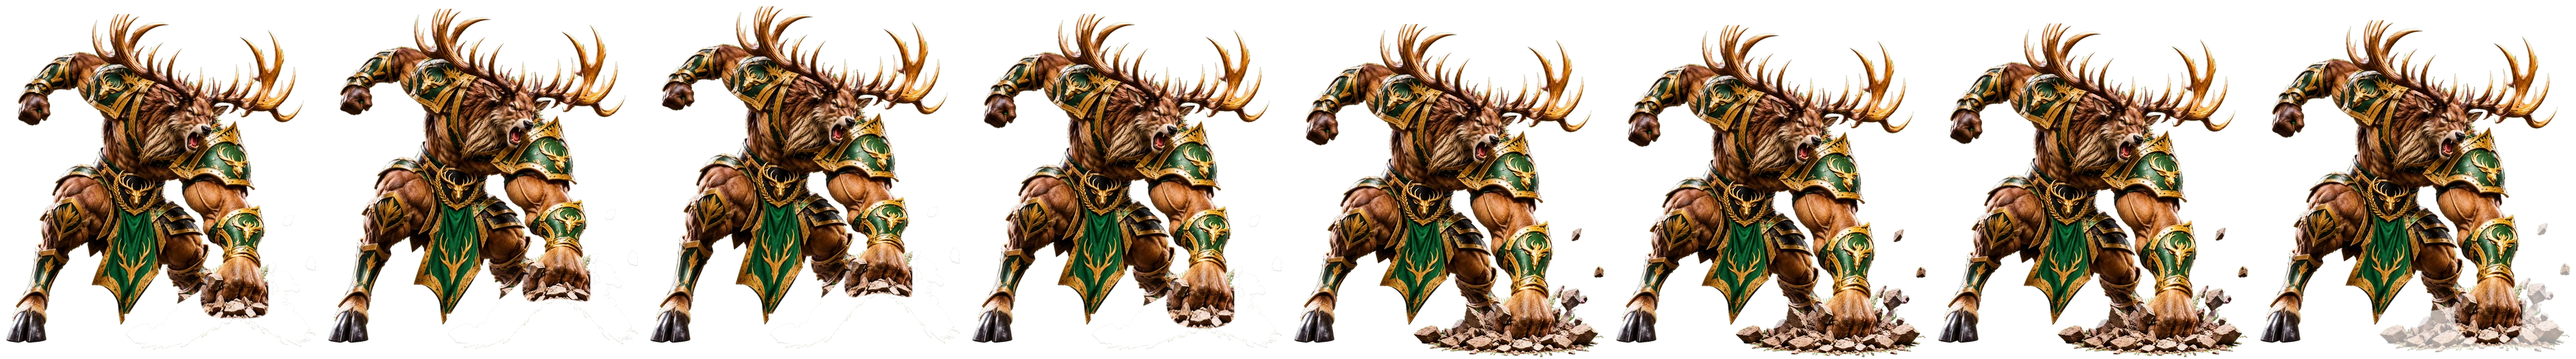
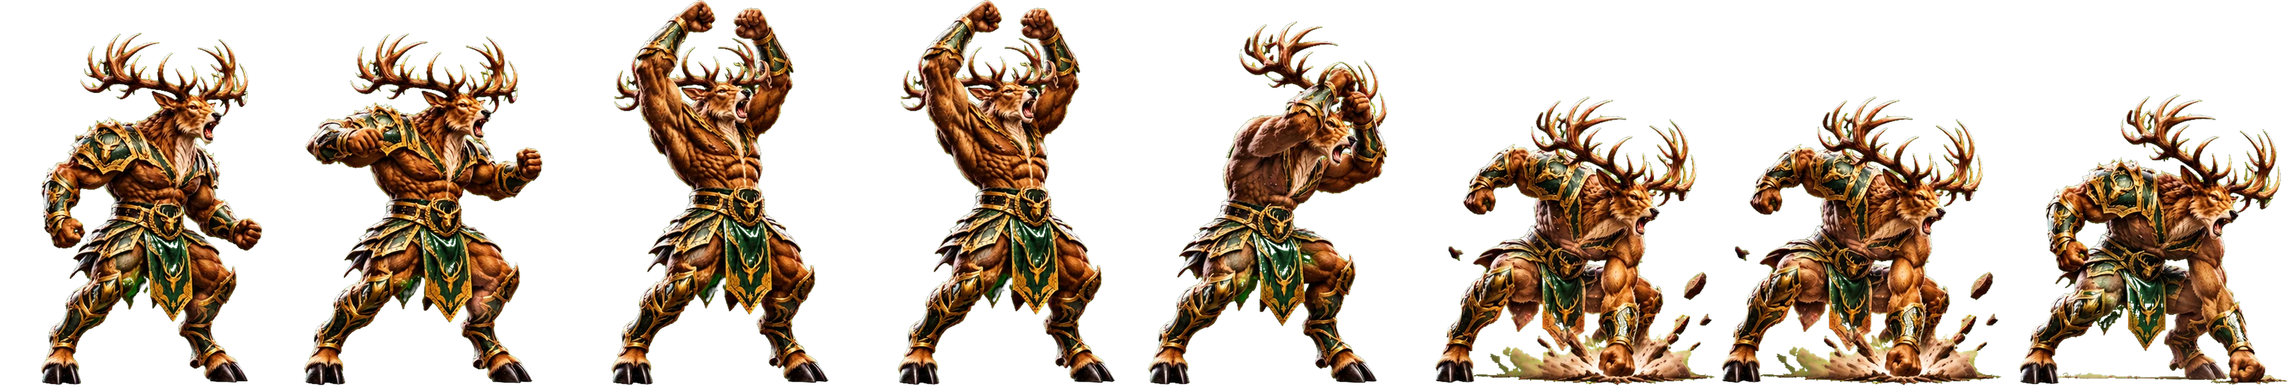
V2 preview 10.19: stag upgraded smash sequence and get-up (not live; walk/jump/victory sheets held back - wrong outfit)
Claude-Session: https://claude.ai/code/session_01Wp8cgZvzavvyA9CxcdgKRp

diff --git a/game/js/sprites-hd.js b/game/js/sprites-hd.js
@@ -1,2 +1,2 @@
 // High-detail fighter frames (frames-hd/), used on large/sharp screens. Same layout as SPRITES.
-const SPRITES_HD={"badger":{"s":2.0,"anims":{"idle":[16,363,425,20,211],"walk_forward":[8,324,422,82,209],"walk_back":[8,324,422,82,209],"run":[8,324,422,82,209],"block":[6,374,428,21,212],"attack_light":[8,423,419,103,208],"bite":[8,364,423,92,210],"claw_swipe":[6,423,419,103,208],"attack_heavy":[8,390,418,89,207],"uppercut":[8,423,419,103,208],"pounce":[8,364,423,92,210],"special_earth_slam":[7,390,418,89,207],"shadow_rampage":[10,423,419,103,208],"victory":[7,364,423,92,210],"jump":[7,374,428,21,212],"crouch":[4,374,428,21,212],"hit_light":[4,363,423,20,210],"hit_heavy":[6,363,423,20,210],"knockdown":[9,586,417,85,207],"knockdown_getup":[6,586,417,85,207],"defeat":[5,586,417,85,207]}},"crocodile":{"s":2.0,"anims":{"idle":[16,658,534,187,264],"walk_forward":[8,755,501,210,247],"walk_back":[8,755,501,210,247],"run":[8,755,501,210,247],"block":[6,617,527,168,261],"attack_light":[8,751,527,215,261],"bite":[8,682,533,187,264],"special_pounce":[6,751,527,215,261],"attack_heavy":[8,777,555,197,275],"uppercut":[7,777,555,197,275],"victory":[8,682,533,187,264],"jump":[7,617,527,168,261],"hit_light":[4,653,531,187,263],"hit_heavy":[6,653,531,187,263],"knockdown":[9,975,530,141,263],"knockdown_getup":[6,975,530,141,263],"defeat":[5,975,530,141,263]}},"elephant":{"s":2.0,"anims":{"idle":[16,725,684,177,339],"walk_forward":[8,788,690,175,341],"walk_back":[8,788,690,175,341],"run":[8,788,690,175,341],"block":[6,717,696,179,344],"attack_light":[8,1010,683,214,338],"bite":[8,768,683,185,338],"special_pounce":[6,1010,683,214,338],"attack_heavy":[8,1018,727,253,360],"uppercut":[7,1018,727,253,360],"victory":[8,768,683,185,338],"jump":[7,717,696,179,344],"hit_light":[4,724,682,178,337],"hit_heavy":[6,724,682,178,337],"knockdown":[9,1092,696,385,345],"knockdown_getup":[6,1092,696,385,345],"defeat":[5,1092,696,385,345]}},"grizzly":{"s":2.0,"anims":{"idle":[16,484,632,126,314],"walk_forward":[8,561,633,92,314],"walk_back":[8,561,633,92,314],"run":[8,561,633,92,314],"block":[6,518,624,129,310],"attack_light":[8,587,631,161,313],"bite":[8,511,630,132,313],"special_pounce":[6,587,631,161,313],"attack_heavy":[8,570,632,142,314],"uppercut":[7,570,632,142,314],"victory":[8,570,632,142,314],"jump":[7,518,624,129,310],"hit_light":[4,485,629,127,312],"hit_heavy":[6,485,629,127,312],"knockdown":[9,804,634,94,315],"knockdown_getup":[6,804,634,94,315],"defeat":[5,804,634,94,315]}},"hippo":{"s":2.0,"anims":{"idle":[16,743,653,181,323],"walk_forward":[8,727,652,145,323],"walk_back":[8,727,652,145,323],"run":[8,727,652,145,323],"block":[6,684,640,170,316],"attack_light":[8,1009,649,213,321],"bite":[8,788,652,189,323],"special_pounce":[6,1009,649,213,321],"attack_heavy":[8,894,689,222,341],"uppercut":[7,894,689,222,341],"victory":[8,788,652,189,323],"jump":[7,684,640,170,316],"hit_light":[4,747,650,184,322],"hit_heavy":[6,747,650,184,322],"knockdown":[9,1058,681,164,338],"knockdown_getup":[6,1058,681,164,338],"defeat":[5,1058,681,164,338]}},"hyena":{"s":2.0,"anims":{"idle":[16,337,491,83,243],"walk_forward":[8,397,486,111,241],"walk_back":[8,397,486,111,241],"run":[8,397,486,111,241],"block":[6,400,486,100,241],"attack_light":[8,451,479,112,238],"bite":[8,355,489,87,243],"special_pounce":[6,355,489,87,243],"attack_heavy":[8,398,431,99,214],"uppercut":[7,451,479,112,238],"victory":[8,355,489,87,243],"jump":[7,400,486,100,241],"hit_light":[4,338,488,84,242],"hit_heavy":[6,338,488,84,242],"knockdown":[9,633,490,78,243],"knockdown_getup":[6,633,490,78,243],"defeat":[5,633,490,78,243]}},"jaguar":{"s":2.0,"anims":{"idle":[16,539,506,129,251],"walk_forward":[8,406,473,72,234],"walk_back":[8,406,473,72,234],"run":[8,406,473,72,234],"block":[6,354,501,25,248],"attack_light":[8,483,488,131,242],"bite":[8,558,504,129,250],"special_pounce":[6,483,488,131,242],"attack_heavy":[8,581,421,132,208],"uppercut":[7,581,421,132,208],"victory":[8,558,504,129,250],"jump":[7,354,501,25,248],"hit_light":[4,537,504,128,250],"hit_heavy":[6,537,504,128,250],"knockdown":[9,719,518,244,257],"knockdown_getup":[6,719,518,244,257],"defeat":[5,719,518,244,257]}},"leopard":{"s":2.0,"anims":{"idle":[16,471,515,22,255],"walk_forward":[8,307,485,87,240],"walk_back":[8,307,485,87,240],"run":[8,307,485,87,240],"dash":[4,307,485,87,240],"crouch":[3,428,517,102,256],"block":[6,443,509,31,253],"attack_light":[8,482,494,122,245],"bite":[8,482,514,22,255],"special_pounce":[6,482,494,122,245],"special_b":[8,482,514,22,255],"special_c":[5,482,494,122,245],"special_d":[14,482,494,122,245],"ultra_move":[5,452,555,97,276],"attack_heavy":[8,452,555,97,276],"uppercut":[7,452,555,97,276],"victory":[8,375,543,102,269],"jump":[7,428,517,102,256],"hit_light":[4,470,513,22,255],"hit_heavy":[6,470,513,22,255],"knockdown":[9,868,555,240,276],"knockdown_getup":[6,432,450,101,223],"defeat":[5,868,555,240,276]}},"lion":{"s":2.0,"anims":{"idle":[16,386,563,98,271],"walk_forward":[8,239,525,65,261],"walk_back":[8,239,525,65,261],"run":[8,239,525,65,261],"block":[6,382,412,96,204],"attack_light":[8,740,471,151,234],"bite":[8,740,471,151,234],"special_pounce":[6,740,471,151,234],"attack_heavy":[8,463,623,109,309],"uppercut":[7,463,623,109,309],"victory":[8,357,530,91,263],"jump":[7,452,422,111,209],"hit_light":[4,367,533,94,265],"hit_heavy":[6,367,533,94,265],"knockdown":[9,694,536,268,267],"knockdown_getup":[5,751,565,269,271],"defeat":[5,694,536,268,267]}},"tiger":{"s":2.0,"anims":{"idle":[16,499,538,126,267],"walk_forward":[8,448,537,86,266],"walk_back":[8,448,537,86,266],"run":[8,448,537,86,266],"block":[6,483,530,120,263],"attack_light":[8,520,524,132,260],"bite":[8,518,537,127,266],"special_pounce":[6,520,524,132,260],"attack_heavy":[8,471,515,127,255],"uppercut":[7,471,515,127,255],"victory":[8,518,537,127,266],"jump":[7,483,530,120,263],"hit_light":[4,496,536,126,266],"hit_heavy":[6,496,536,126,266],"knockdown":[9,750,543,261,270],"knockdown_getup":[6,750,543,261,270],"defeat":[5,750,543,261,270]}},"wolf":{"s":2.0,"anims":{"idle":[16,409,498,107,247],"walk_forward":[8,467,408,96,202],"walk_back":[8,467,408,96,202],"run":[8,467,408,96,202],"block":[6,404,490,104,244],"attack_light":[8,445,398,123,197],"bite":[8,447,340,119,168],"special_pounce":[6,447,340,119,168],"attack_heavy":[8,363,395,93,196],"uppercut":[7,363,395,93,196],"victory":[8,447,340,119,168],"jump":[7,404,490,104,244],"hit_light":[4,404,497,104,247],"hit_heavy":[6,404,497,104,247],"knockdown":[9,670,503,243,250],"knockdown_getup":[6,670,503,243,250],"defeat":[5,670,503,243,250]}},"majic":{"s":2.0,"anims":{"idle":[16,742,799,187,396],"walk_forward":[8,763,782,245,388],"walk_back":[8,763,782,245,388],"run":[8,763,782,245,388],"dash":[4,763,782,245,388],"crouch":[3,739,792,62,393],"block":[6,739,792,62,393],"attack_light":[8,808,714,216,354],"bite":[8,773,798,193,396],"special_pounce":[6,773,798,193,396],"special_b":[6,808,714,216,354],"special_c":[5,773,798,193,396],"special_d":[5,810,768,210,381],"ultra_move":[10,808,714,216,354],"attack_heavy":[8,810,768,210,381],"uppercut":[7,810,768,210,381],"victory":[8,742,799,187,396],"jump":[7,739,792,62,393],"hit_light":[4,746,795,190,395],"hit_heavy":[6,746,795,190,395],"knockdown":[9,1082,819,398,407],"knockdown_getup":[6,1082,819,398,407],"defeat":[5,1082,819,398,407]}},"snake":{"s":2.0,"anims":{"idle":[16,498,552,122,274],"walk_forward":[8,314,499,93,247],"walk_back":[8,314,499,93,247],"run":[8,314,499,93,247],"crouch":[3,469,547,25,272],"block":[6,469,547,25,272],"attack_light":[8,532,537,123,267],"bite":[8,498,551,122,274],"special_pounce":[6,498,551,122,274],"special_b":[6,532,537,123,267],"special_c":[5,498,551,122,274],"special_d":[5,491,567,114,281],"ultra_move":[10,532,537,123,267],"attack_heavy":[8,491,567,114,281],"uppercut":[7,491,567,114,281],"victory":[8,498,551,122,274],"jump":[7,469,547,25,272],"hit_light":[4,498,550,122,273],"hit_heavy":[6,498,550,122,273],"knockdown":[9,778,548,271,272],"knockdown_getup":[6,778,548,271,272],"defeat":[5,778,548,271,272]}},"eagle":{"s":2.0,"anims":{"idle":[16,486,526,121,261],"walk_forward":[8,478,518,190,257],"walk_back":[8,478,518,190,257],"run":[8,478,518,190,257],"crouch":[3,483,520,108,258],"block":[6,483,520,108,258],"attack_light":[8,500,526,124,261],"bite":[8,502,525,125,260],"special_pounce":[6,502,525,125,260],"special_b":[6,500,526,124,261],"ultra_move":[10,500,526,124,261],"attack_heavy":[8,497,530,123,263],"uppercut":[7,497,530,123,263],"victory":[8,486,526,121,261],"jump":[7,483,520,108,258],"hit_light":[4,487,522,122,259],"hit_heavy":[6,487,522,122,259],"knockdown":[9,692,536,255,266],"knockdown_getup":[6,692,536,255,266],"defeat":[5,692,536,255,266]}},"stag":{"s":2.0,"anims":{"idle":[16,341,572,85,283],"walk_forward":[8,411,557,124,276],"walk_back":[8,411,557,124,276],"run":[8,411,557,124,276],"crouch":[3,453,553,113,274],"block":[6,453,553,113,274],"attack_light":[8,539,540,118,268],"bite":[8,358,571,85,283],"special_pounce":[6,358,571,85,283],"special_b":[6,539,540,118,268],"special_c":[5,358,571,85,283],"special_d":[5,509,568,117,282],"ultra_move":[10,539,540,118,268],"attack_heavy":[8,509,568,117,282],"uppercut":[7,509,568,117,282],"victory":[8,358,571,85,283],"jump":[7,453,553,113,274],"hit_light":[4,341,570,85,282],"hit_heavy":[6,341,570,85,282],"knockdown":[9,734,584,285,290],"knockdown_getup":[6,734,584,285,290],"defeat":[5,734,584,285,290]}}};
+const SPRITES_HD={"badger":{"s":2.0,"anims":{"idle":[16,363,425,20,211],"walk_forward":[8,324,422,82,209],"walk_back":[8,324,422,82,209],"run":[8,324,422,82,209],"block":[6,374,428,21,212],"attack_light":[8,423,419,103,208],"bite":[8,364,423,92,210],"claw_swipe":[6,423,419,103,208],"attack_heavy":[8,390,418,89,207],"uppercut":[8,423,419,103,208],"pounce":[8,364,423,92,210],"special_earth_slam":[7,390,418,89,207],"shadow_rampage":[10,423,419,103,208],"victory":[7,364,423,92,210],"jump":[7,374,428,21,212],"crouch":[4,374,428,21,212],"hit_light":[4,363,423,20,210],"hit_heavy":[6,363,423,20,210],"knockdown":[9,586,417,85,207],"knockdown_getup":[6,586,417,85,207],"defeat":[5,586,417,85,207]}},"crocodile":{"s":2.0,"anims":{"idle":[16,658,534,187,264],"walk_forward":[8,755,501,210,247],"walk_back":[8,755,501,210,247],"run":[8,755,501,210,247],"block":[6,617,527,168,261],"attack_light":[8,751,527,215,261],"bite":[8,682,533,187,264],"special_pounce":[6,751,527,215,261],"attack_heavy":[8,777,555,197,275],"uppercut":[7,777,555,197,275],"victory":[8,682,533,187,264],"jump":[7,617,527,168,261],"hit_light":[4,653,531,187,263],"hit_heavy":[6,653,531,187,263],"knockdown":[9,975,530,141,263],"knockdown_getup":[6,975,530,141,263],"defeat":[5,975,530,141,263]}},"elephant":{"s":2.0,"anims":{"idle":[16,725,684,177,339],"walk_forward":[8,788,690,175,341],"walk_back":[8,788,690,175,341],"run":[8,788,690,175,341],"block":[6,717,696,179,344],"attack_light":[8,1010,683,214,338],"bite":[8,768,683,185,338],"special_pounce":[6,1010,683,214,338],"attack_heavy":[8,1018,727,253,360],"uppercut":[7,1018,727,253,360],"victory":[8,768,683,185,338],"jump":[7,717,696,179,344],"hit_light":[4,724,682,178,337],"hit_heavy":[6,724,682,178,337],"knockdown":[9,1092,696,385,345],"knockdown_getup":[6,1092,696,385,345],"defeat":[5,1092,696,385,345]}},"grizzly":{"s":2.0,"anims":{"idle":[16,484,632,126,314],"walk_forward":[8,561,633,92,314],"walk_back":[8,561,633,92,314],"run":[8,561,633,92,314],"block":[6,518,624,129,310],"attack_light":[8,587,631,161,313],"bite":[8,511,630,132,313],"special_pounce":[6,587,631,161,313],"attack_heavy":[8,570,632,142,314],"uppercut":[7,570,632,142,314],"victory":[8,570,632,142,314],"jump":[7,518,624,129,310],"hit_light":[4,485,629,127,312],"hit_heavy":[6,485,629,127,312],"knockdown":[9,804,634,94,315],"knockdown_getup":[6,804,634,94,315],"defeat":[5,804,634,94,315]}},"hippo":{"s":2.0,"anims":{"idle":[16,743,653,181,323],"walk_forward":[8,727,652,145,323],"walk_back":[8,727,652,145,323],"run":[8,727,652,145,323],"block":[6,684,640,170,316],"attack_light":[8,1009,649,213,321],"bite":[8,788,652,189,323],"special_pounce":[6,1009,649,213,321],"attack_heavy":[8,894,689,222,341],"uppercut":[7,894,689,222,341],"victory":[8,788,652,189,323],"jump":[7,684,640,170,316],"hit_light":[4,747,650,184,322],"hit_heavy":[6,747,650,184,322],"knockdown":[9,1058,681,164,338],"knockdown_getup":[6,1058,681,164,338],"defeat":[5,1058,681,164,338]}},"hyena":{"s":2.0,"anims":{"idle":[16,337,491,83,243],"walk_forward":[8,397,486,111,241],"walk_back":[8,397,486,111,241],"run":[8,397,486,111,241],"block":[6,400,486,100,241],"attack_light":[8,451,479,112,238],"bite":[8,355,489,87,243],"special_pounce":[6,355,489,87,243],"attack_heavy":[8,398,431,99,214],"uppercut":[7,451,479,112,238],"victory":[8,355,489,87,243],"jump":[7,400,486,100,241],"hit_light":[4,338,488,84,242],"hit_heavy":[6,338,488,84,242],"knockdown":[9,633,490,78,243],"knockdown_getup":[6,633,490,78,243],"defeat":[5,633,490,78,243]}},"jaguar":{"s":2.0,"anims":{"idle":[16,539,506,129,251],"walk_forward":[8,406,473,72,234],"walk_back":[8,406,473,72,234],"run":[8,406,473,72,234],"block":[6,354,501,25,248],"attack_light":[8,483,488,131,242],"bite":[8,558,504,129,250],"special_pounce":[6,483,488,131,242],"attack_heavy":[8,581,421,132,208],"uppercut":[7,581,421,132,208],"victory":[8,558,504,129,250],"jump":[7,354,501,25,248],"hit_light":[4,537,504,128,250],"hit_heavy":[6,537,504,128,250],"knockdown":[9,719,518,244,257],"knockdown_getup":[6,719,518,244,257],"defeat":[5,719,518,244,257]}},"leopard":{"s":2.0,"anims":{"idle":[16,471,515,22,255],"walk_forward":[8,307,485,87,240],"walk_back":[8,307,485,87,240],"run":[8,307,485,87,240],"dash":[4,307,485,87,240],"crouch":[3,428,517,102,256],"block":[6,443,509,31,253],"attack_light":[8,482,494,122,245],"bite":[8,482,514,22,255],"special_pounce":[6,482,494,122,245],"special_b":[8,482,514,22,255],"special_c":[5,482,494,122,245],"special_d":[14,482,494,122,245],"ultra_move":[5,452,555,97,276],"attack_heavy":[8,452,555,97,276],"uppercut":[7,452,555,97,276],"victory":[8,375,543,102,269],"jump":[7,428,517,102,256],"hit_light":[4,470,513,22,255],"hit_heavy":[6,470,513,22,255],"knockdown":[9,868,555,240,276],"knockdown_getup":[6,432,450,101,223],"defeat":[5,868,555,240,276]}},"lion":{"s":2.0,"anims":{"idle":[16,386,563,98,271],"walk_forward":[8,239,525,65,261],"walk_back":[8,239,525,65,261],"run":[8,239,525,65,261],"block":[6,382,412,96,204],"attack_light":[8,740,471,151,234],"bite":[8,740,471,151,234],"special_pounce":[6,740,471,151,234],"attack_heavy":[8,463,623,109,309],"uppercut":[7,463,623,109,309],"victory":[8,357,530,91,263],"jump":[7,452,422,111,209],"hit_light":[4,367,533,94,265],"hit_heavy":[6,367,533,94,265],"knockdown":[9,694,536,268,267],"knockdown_getup":[5,751,565,269,271],"defeat":[5,694,536,268,267]}},"tiger":{"s":2.0,"anims":{"idle":[16,499,538,126,267],"walk_forward":[8,448,537,86,266],"walk_back":[8,448,537,86,266],"run":[8,448,537,86,266],"block":[6,483,530,120,263],"attack_light":[8,520,524,132,260],"bite":[8,518,537,127,266],"special_pounce":[6,520,524,132,260],"attack_heavy":[8,471,515,127,255],"uppercut":[7,471,515,127,255],"victory":[8,518,537,127,266],"jump":[7,483,530,120,263],"hit_light":[4,496,536,126,266],"hit_heavy":[6,496,536,126,266],"knockdown":[9,750,543,261,270],"knockdown_getup":[6,750,543,261,270],"defeat":[5,750,543,261,270]}},"wolf":{"s":2.0,"anims":{"idle":[16,409,498,107,247],"walk_forward":[8,467,408,96,202],"walk_back":[8,467,408,96,202],"run":[8,467,408,96,202],"block":[6,404,490,104,244],"attack_light":[8,445,398,123,197],"bite":[8,447,340,119,168],"special_pounce":[6,447,340,119,168],"attack_heavy":[8,363,395,93,196],"uppercut":[7,363,395,93,196],"victory":[8,447,340,119,168],"jump":[7,404,490,104,244],"hit_light":[4,404,497,104,247],"hit_heavy":[6,404,497,104,247],"knockdown":[9,670,503,243,250],"knockdown_getup":[6,670,503,243,250],"defeat":[5,670,503,243,250]}},"majic":{"s":2.0,"anims":{"idle":[16,742,799,187,396],"walk_forward":[8,763,782,245,388],"walk_back":[8,763,782,245,388],"run":[8,763,782,245,388],"dash":[4,763,782,245,388],"crouch":[3,739,792,62,393],"block":[6,739,792,62,393],"attack_light":[8,808,714,216,354],"bite":[8,773,798,193,396],"special_pounce":[6,773,798,193,396],"special_b":[6,808,714,216,354],"special_c":[5,773,798,193,396],"special_d":[5,810,768,210,381],"ultra_move":[10,808,714,216,354],"attack_heavy":[8,810,768,210,381],"uppercut":[7,810,768,210,381],"victory":[8,742,799,187,396],"jump":[7,739,792,62,393],"hit_light":[4,746,795,190,395],"hit_heavy":[6,746,795,190,395],"knockdown":[9,1082,819,398,407],"knockdown_getup":[6,1082,819,398,407],"defeat":[5,1082,819,398,407]}},"snake":{"s":2.0,"anims":{"idle":[16,498,552,122,274],"walk_forward":[8,314,499,93,247],"walk_back":[8,314,499,93,247],"run":[8,314,499,93,247],"crouch":[3,469,547,25,272],"block":[6,469,547,25,272],"attack_light":[8,532,537,123,267],"bite":[8,498,551,122,274],"special_pounce":[6,498,551,122,274],"special_b":[6,532,537,123,267],"special_c":[5,498,551,122,274],"special_d":[5,491,567,114,281],"ultra_move":[10,532,537,123,267],"attack_heavy":[8,491,567,114,281],"uppercut":[7,491,567,114,281],"victory":[8,498,551,122,274],"jump":[7,469,547,25,272],"hit_light":[4,498,550,122,273],"hit_heavy":[6,498,550,122,273],"knockdown":[9,778,548,271,272],"knockdown_getup":[6,778,548,271,272],"defeat":[5,778,548,271,272]}},"eagle":{"s":2.0,"anims":{"idle":[16,486,526,121,261],"walk_forward":[8,478,518,190,257],"walk_back":[8,478,518,190,257],"run":[8,478,518,190,257],"crouch":[3,483,520,108,258],"block":[6,483,520,108,258],"attack_light":[8,500,526,124,261],"bite":[8,502,525,125,260],"special_pounce":[6,502,525,125,260],"special_b":[6,500,526,124,261],"ultra_move":[10,500,526,124,261],"attack_heavy":[8,497,530,123,263],"uppercut":[7,497,530,123,263],"victory":[8,486,526,121,261],"jump":[7,483,520,108,258],"hit_light":[4,487,522,122,259],"hit_heavy":[6,487,522,122,259],"knockdown":[9,692,536,255,266],"knockdown_getup":[6,692,536,255,266],"defeat":[5,692,536,255,266]}},"stag":{"s":2.0,"anims":{"idle":[16,341,572,85,283],"walk_forward":[8,411,557,124,276],"walk_back":[8,411,557,124,276],"run":[8,411,557,124,276],"crouch":[3,453,553,113,274],"block":[6,453,553,113,274],"attack_light":[8,539,540,118,268],"bite":[8,358,571,85,283],"special_pounce":[6,358,571,85,283],"special_b":[6,539,540,118,268],"special_c":[5,358,571,85,283],"special_d":[5,453,612,113,304],"ultra_move":[10,539,540,118,268],"attack_heavy":[8,453,612,113,304],"uppercut":[7,453,612,113,304],"victory":[8,358,571,85,283],"jump":[7,453,553,113,274],"hit_light":[4,341,570,85,282],"hit_heavy":[6,341,570,85,282],"knockdown":[9,734,584,285,290],"knockdown_getup":[6,507,558,164,277],"defeat":[5,734,584,285,290]}}};

diff --git a/game/js/game.js b/game/js/game.js
@@ -1667,9 +1667,9 @@ const SPRITES={
  eagle:{s:0.6,anims:{"idle":[16,146,158,121,261],"walk_forward":[8,143,155,190,257],"walk_back":[8,143,155,190,257],"run":[8,143,155,190,257],"crouch":[3,145,156,108,258],"block":[6,145,156,108,258],"attack_light":[8,150,158,124,261],"bite":[8,151,157,125,260],"special_pounce":[6,151,157,125,260],"special_b":[6,150,158,124,261],"ultra_move":[10,150,158,124,261],"attack_heavy":[8,149,159,123,263],"uppercut":[7,149,159,123,263],"victory":[8,146,158,121,261],"jump":[7,145,156,108,258],"hit_light":[4,146,157,122,259],"hit_heavy":[6,146,157,122,259],"knockdown":[9,208,161,255,266],"knockdown_getup":[6,208,161,255,266],"defeat":[5,208,161,255,266]},
   double:['attack_light','attack_heavy','special_b'],special:'special_pounce',shadow:'special_b',ultra:['ultra_move','attack_heavy','bite','uppercut'],
   fall:['knockdown',[0,1,2,3,4,5]],getup:['knockdown',[7,3,2,1,0]],ko:['knockdown',8]},
- stag:{s:0.6,anims:{"idle":[16,102,171,85,283],"walk_forward":[8,123,167,124,276],"walk_back":[8,123,167,124,276],"run":[8,123,167,124,276],"crouch":[3,136,166,113,274],"block":[6,136,166,113,274],"attack_light":[8,162,162,118,268],"bite":[8,107,171,85,283],"special_pounce":[6,107,171,85,283],"special_b":[6,162,162,118,268],"special_c":[5,107,171,85,283],"special_d":[5,153,170,117,282],"ultra_move":[10,162,162,118,268],"attack_heavy":[8,153,170,117,282],"uppercut":[7,153,170,117,282],"victory":[8,107,171,85,283],"jump":[7,136,166,113,274],"hit_light":[4,102,171,85,282],"hit_heavy":[6,102,171,85,282],"knockdown":[9,220,175,285,290],"knockdown_getup":[6,220,175,285,290],"defeat":[5,220,175,285,290]},
+ stag:{s:0.6,anims:{"idle":[16,102,171,85,283],"walk_forward":[8,123,167,124,276],"walk_back":[8,123,167,124,276],"run":[8,123,167,124,276],"crouch":[3,136,166,113,274],"block":[6,136,166,113,274],"attack_light":[8,162,162,118,268],"bite":[8,107,171,85,283],"special_pounce":[6,107,171,85,283],"special_b":[6,162,162,118,268],"special_c":[5,107,171,85,283],"special_d":[5,136,184,113,304],"ultra_move":[10,162,162,118,268],"attack_heavy":[8,136,184,113,304],"uppercut":[7,136,184,113,304],"victory":[8,107,171,85,283],"jump":[7,136,166,113,274],"hit_light":[4,102,171,85,282],"hit_heavy":[6,102,171,85,282],"knockdown":[9,220,175,285,290],"knockdown_getup":[6,152,167,164,277],"defeat":[5,220,175,285,290]},
   double:['attack_heavy','attack_light'],special:'special_pounce',shadow:'special_b',ultra:['ultra_move','attack_heavy','bite','uppercut'],
-  fall:['knockdown',[0,1,2,3,4,5]],getup:['knockdown',[7,3,2,1,0]],ko:['knockdown',8]},
+  fall:['knockdown',[0,1,2,3,4,5]],getup:['knockdown_getup',[0,1,2,3,4,5]],ko:['knockdown',8]},
  majic:{s:0.6,anims:{"idle":[16,222,240,187,396],"walk_forward":[8,229,235,245,388],"walk_back":[8,229,235,245,388],"run":[8,229,235,245,388],"dash":[4,229,235,245,388],"crouch":[3,222,238,62,393],"block":[6,222,238,62,393],"attack_light":[8,243,214,216,354],"bite":[8,232,239,193,396],"special_pounce":[6,232,239,193,396],"special_b":[6,243,214,216,354],"special_c":[5,232,239,193,396],"special_d":[5,243,230,210,381],"ultra_move":[10,243,214,216,354],"attack_heavy":[8,243,230,210,381],"uppercut":[7,243,230,210,381],"victory":[8,222,240,187,396],"jump":[7,222,238,62,393],"hit_light":[4,224,239,190,395],"hit_heavy":[6,224,239,190,395],"knockdown":[9,325,246,398,407],"knockdown_getup":[6,325,246,398,407],"defeat":[5,325,246,398,407]},
   double:['attack_heavy','attack_light'],special:'special_pounce',shadow:'special_b',ultra:['ultra_move','special_c','special_d','attack_heavy'],
   fall:['knockdown',[0,1,2,3,4,5]],getup:['knockdown',[7,3,2,1,0]],ko:['knockdown',8]},
@@ -1707,11 +1707,11 @@ const SPRITES={
   double:['attack_heavy','attack_light'],special:'special_pounce',shadow:null,ultra:['attack_light','attack_heavy','uppercut','bite'],
   fall:['knockdown',[0,1,2,3,4,5]],getup:['knockdown',[7,3,2,1,0]],ko:['knockdown',8]}
 };
-const spriteImg={};for(const id in SPRITES){spriteImg[id]={};for(const k in SPRITES[id].anims){const im=new Image();im.src='assets/characters/'+id+'/frames/'+k+'.webp?v=10.18';spriteImg[id][k]=im}}
+const spriteImg={};for(const id in SPRITES){spriteImg[id]={};for(const k in SPRITES[id].anims){const im=new Image();im.src='assets/characters/'+id+'/frames/'+k+'.webp?v=10.19';spriteImg[id][k]=im}}
 // High-detail art for big, sharp screens (laptops, TVs, 4K): loaded per fight, only for the two fighters in it.
 const HD=typeof SPRITES_HD!=='undefined'?SPRITES_HD:{},spriteHD={};
 function wantHD(){const r=$('game-canvas').getBoundingClientRect(),d=Math.min(window.devicePixelRatio||1,3);return r.height*d>=560}
-function loadHD(id){if(!HD[id]||spriteHD[id])return;spriteHD[id]={};for(const k in HD[id].anims){const im=new Image();im.decoding='async';im.src='assets/characters/'+id+'/frames-hd/'+k+'.webp?v=10.18';spriteHD[id][k]=im}}
+function loadHD(id){if(!HD[id]||spriteHD[id])return;spriteHD[id]={};for(const k in HD[id].anims){const im=new Image();im.decoding='async';im.src='assets/characters/'+id+'/frames-hd/'+k+'.webp?v=10.19';spriteHD[id][k]=im}}
 const c=$('game-canvas').getContext('2d');
 function draw(){
  const canvas=$('game-canvas'),rect=canvas.getBoundingClientRect(),dpr=Math.min(window.devicePixelRatio||1,3),w=1100,h=520;

diff --git a/game/index.html b/game/index.html
@@ -17,7 +17,7 @@
   s.addEventListener('pointerdown',go);addEventListener('keydown',function(e){if(!done){go(e)}},{capture:true,once:true});(function pad(){if(done)return;var g=navigator.getGamepads?[].slice.call(navigator.getGamepads()):[];if(g.some(function(x){return x&&x.buttons.some(function(b){return b.pressed})})){go();return}requestAnimationFrame(pad)})()})();</script>
   <div id="backdrop" aria-hidden="true"><div class="bd-img bd-a"></div><div class="bd-img bd-b"></div><div class="bd-rays"></div><div class="bd-vignette"></div><canvas id="bd-embers"></canvas></div>
   <main id="app">
-    <header class="topbar"><img class="brand-crown" src="assets/ui/crown.webp" alt=""><div><div class="eyebrow">A LEGACY UNLEASHED</div><h1>KING OF THE JUNGLE</h1></div><div class="build-tag">V2 PREVIEW · 10.18 (not live)</div></header>
+    <header class="topbar"><img class="brand-crown" src="assets/ui/crown.webp" alt=""><div><div class="eyebrow">A LEGACY UNLEASHED</div><h1>KING OF THE JUNGLE</h1></div><div class="build-tag">V2 PREVIEW · 10.19 (not live)</div></header>
     <section id="menu" class="screen cover">
       <div class="cover-bg"></div><div class="cover-rays"></div><canvas id="embers" class="cover-embers"></canvas><div class="cover-vignette"></div>
       <div class="cover-hero"><div class="hero-glow"></div><img src="assets/characters/lion/lion-hero.webp" alt="The Lion, King of the Jungle"></div>
@@ -42,7 +42,7 @@
         </div>
       </div>
       <div class="cover-roster"><span>11 FIGHTERS · ONE THRONE</span><div id="cover-faces"></div></div>
-      <div class="cover-meta"><span id="cover-build">V2 PREVIEW · 10.18 (not live)</span><span>© King of the Jungle · J. Hardy</span></div>
+      <div class="cover-meta"><span id="cover-build">V2 PREVIEW · 10.19 (not live)</span><span>© King of the Jungle · J. Hardy</span></div>
     </section>
     <section id="select" class="screen hidden v2sel">
       <div class="select-title"><img class="st-crown" src="assets/ui/crown.webp" alt=""><h2 class="st-main">KING <small>OF THE</small> JUNGLE</h2><p class="st-sub">CHARACTER SELECT</p><p id="select-instruction">Player 1: choose a fighter</p></div>
@@ -114,7 +114,7 @@
     </section>
     <footer><span>© KING OF THE JUNGLE</span><span>Created and Developed by J. Hardy</span></footer>
   </main>
-  <script src="js/roster.js?v=7.1"></script><script src="js/story.js?v=7.7"></script><script src="js/sprites-hd.js?v=10.18"></script><script src="js/audio.js?v=9.12"></script><script src="js/hitboxes.js?v=8.0"></script><script src="js/net.js?v=7.1"></script><script src="js/game.js?v=10.18"></script>
+  <script src="js/roster.js?v=7.1"></script><script src="js/story.js?v=7.7"></script><script src="js/sprites-hd.js?v=10.19"></script><script src="js/audio.js?v=9.12"></script><script src="js/hitboxes.js?v=8.0"></script><script src="js/net.js?v=7.1"></script><script src="js/game.js?v=10.19"></script>
 <script>(function(){var last=0;
 document.addEventListener('gesturestart',function(e){e.preventDefault()},{passive:false});
 document.addEventListener('gesturechange',function(e){e.preventDefault()},{passive:false});
